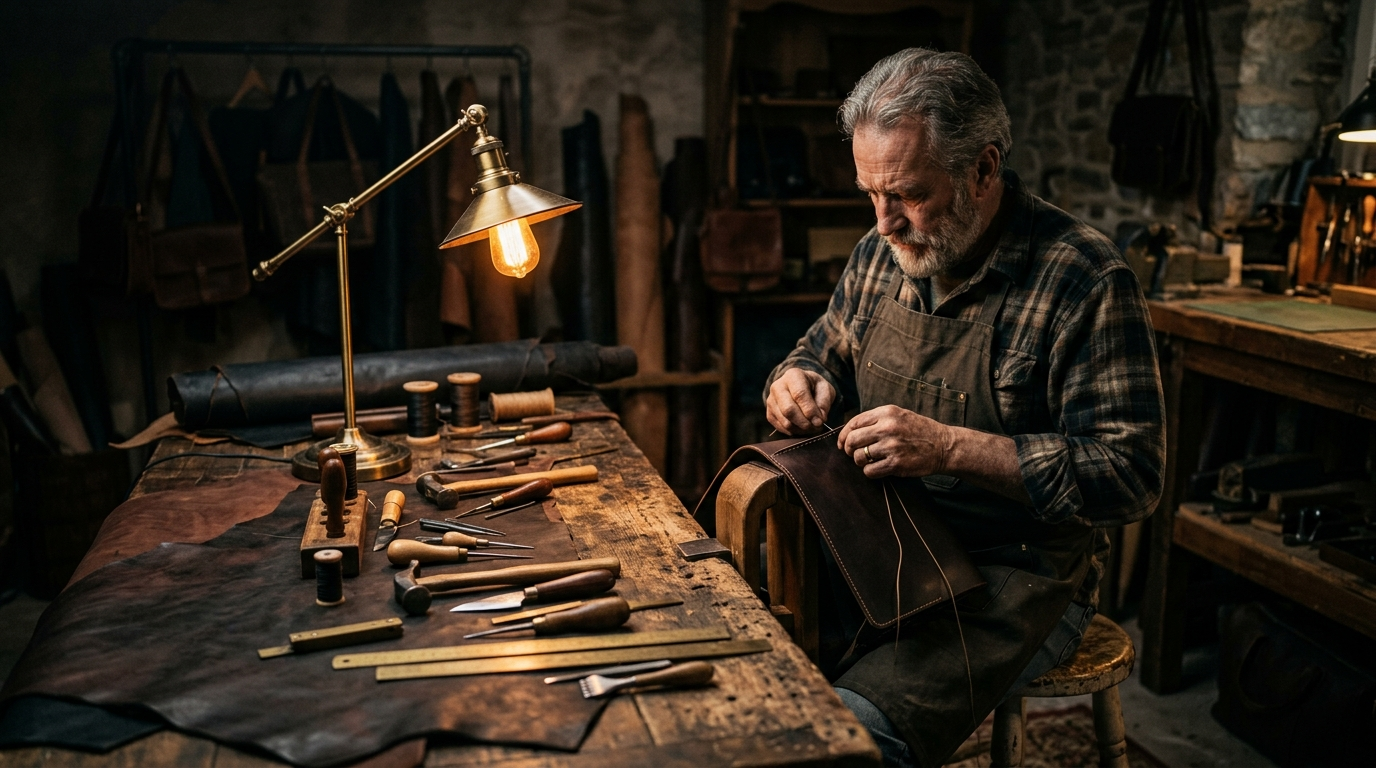
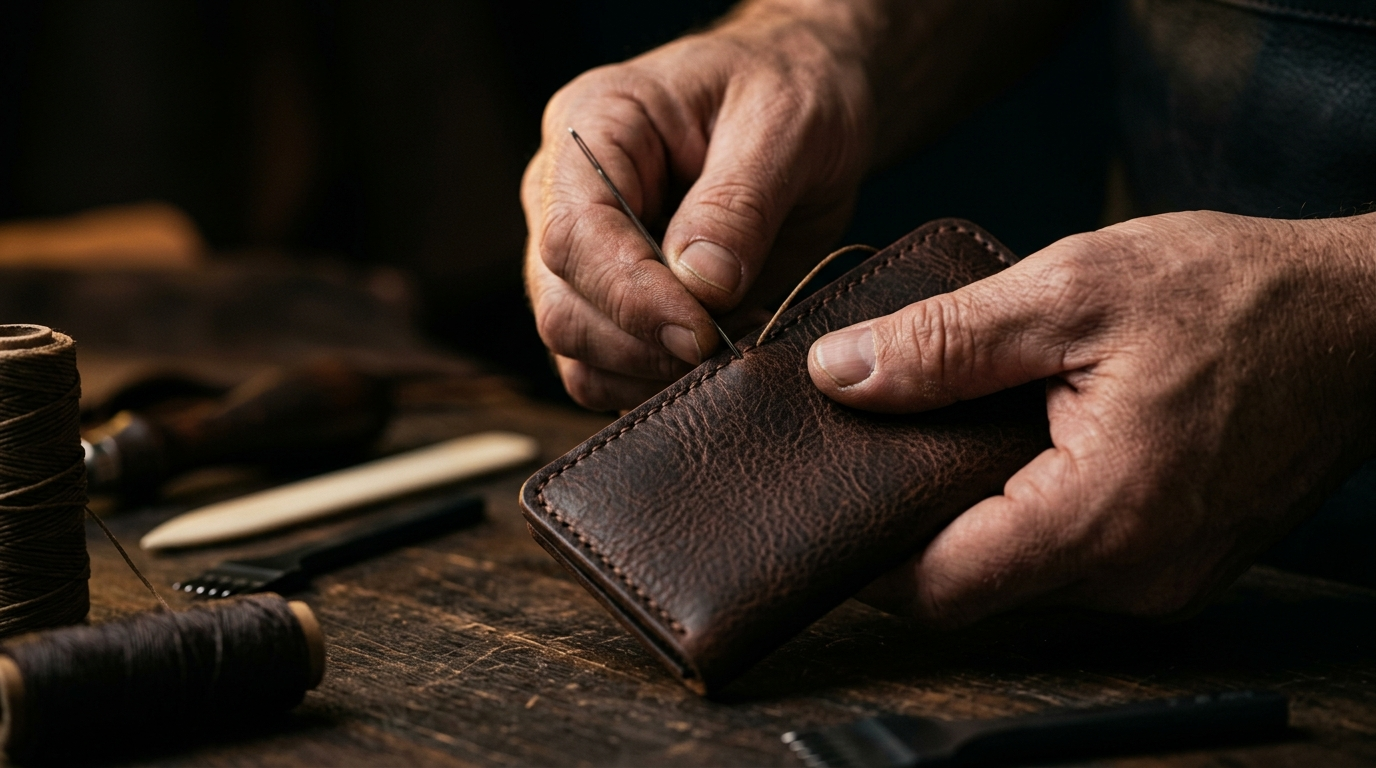
style: replace WhatsApp CTA background with ultra-refined leather artisan macro shot

diff --git a/src/components/PartnerCtaSection.tsx b/src/components/PartnerCtaSection.tsx
@@ -28,12 +28,13 @@ export default function PartnerCtaSection({
           className="object-cover object-center select-none"
         />
         {/* Deep Dark Overlay to achieve screenshot's moody luxury ambiance */}
-        <div className="absolute inset-0 bg-[#0B0B0B]/80 backdrop-blur-[2px]" />
+        <div className="absolute inset-0 bg-[#0B0B0B]/60" />
         <div className="absolute inset-0 bg-gradient-to-t from-[#0B0B0B] via-transparent to-[#0B0B0B]" />
+        <div className="absolute inset-0 bg-gradient-to-r from-[#0B0B0B]/40 via-transparent to-[#0B0B0B]/40" />
       </div>
 
       {/* Central Floating Callout Card */}
-      <div className="relative z-10 max-w-4xl mx-auto border border-[#7A5C22]/60 bg-[#161514]/92 backdrop-blur-md px-6 py-12 sm:px-14 sm:py-16 text-center shadow-[0_20px_50px_rgba(0,0,0,0.85)]">
+      <div className="relative z-10 max-w-4xl mx-auto border border-[#7A5C22]/70 bg-[#161514]/95 px-6 py-12 sm:px-14 sm:py-16 text-center shadow-[0_25px_60px_rgba(0,0,0,0.95)]">
         {/* Main Headline */}
         <h2 className="font-serif text-2xl sm:text-3xl lg:text-[36px] font-bold uppercase tracking-[0.06em] text-[#E0C681] leading-tight sm:leading-[1.25]">
           Partner With The Best In Leather <br className="hidden sm:inline" />
